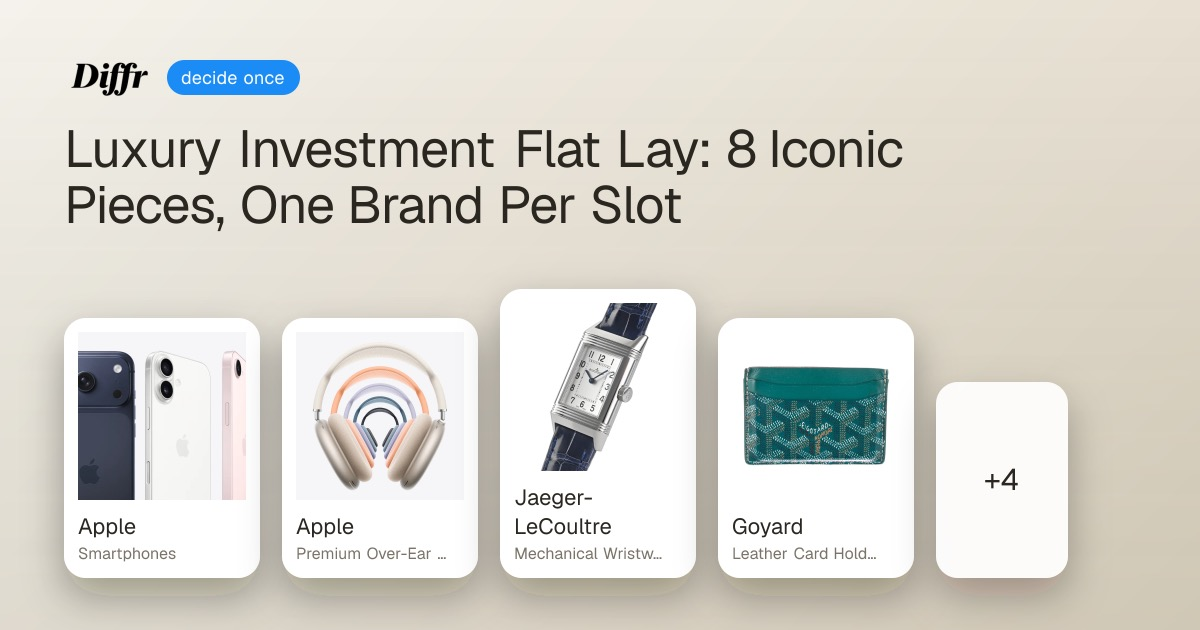
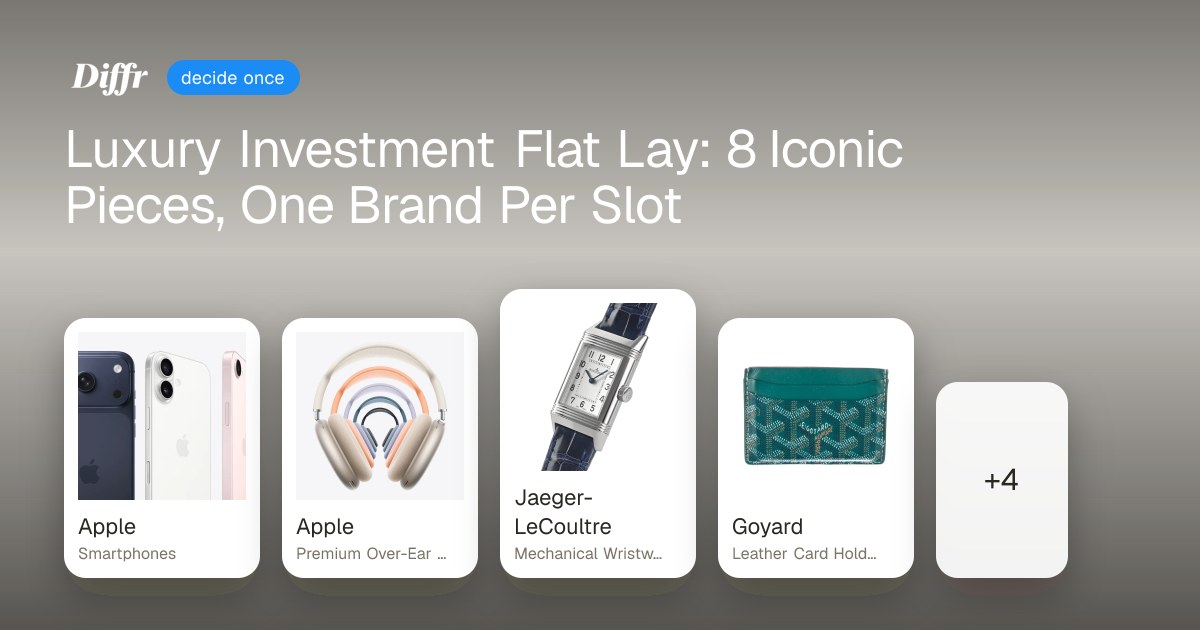
Add luxury flat lay photo as og-base, blog cover, and rebaked share card.
Uses the new reference flat lay for luxury-investment-brand-guide hero cover and OG card background, with updated static share JPG for X/Twitter.

diff --git a/app/diffr/blog/[slug]/page.tsx b/app/diffr/blog/[slug]/page.tsx
@@ -9,7 +9,7 @@ import SceneBrandKit from '../../start/SceneBrandKit'
 import { BLOG_FAQ, BLOG_TLDR } from '../brand-guide-content'
 import { BEHIND_THE_BUILD_FAQ, BEHIND_THE_BUILD_TLDR } from '../behind-the-build-posts'
 import { BEHIND_THE_CONTRACT_FAQ, BEHIND_THE_CONTRACT_TLDR } from '../behind-the-contract-posts'
-import { hasDynamicOgCard } from '../og-base'
+import { hasDynamicOgCard, OG_BASE_SLUGS } from '../og-base'
 import { bakedOgUrl } from '../static-og'
 import {
   buildSupplierItemListLd,
@@ -166,10 +166,12 @@ export default async function BlogPostPage({ params }: Props) {
   const post = getPostBySlug(slug)
   if (!post) notFound()
 
-  // Hook cover photo (toy-team campaign posts); rendered as a hero + share image.
+  // Hook cover photo (toy-team campaign, og-base brand guides).
   const coverImage = (slug === 'mixed-toy-box' || slug.startsWith('toy-team-'))
     ? `/toy-covers/${slug}.jpg`
-    : null
+    : OG_BASE_SLUGS.has(slug)
+      ? `/og-base/${slug}.jpg`
+      : null
 
   const allPosts = getAllPosts()
   const currentIndex = allPosts.findIndex((p) => p.slug === post.slug)

diff --git a/app/diffr/blog/og-base.ts b/app/diffr/blog/og-base.ts
@@ -37,6 +37,7 @@ export const OG_BASE_SLUGS = new Set<string>([
   'behind-the-build-jewel-changi-airport',
   'behind-the-build-petronas-twin-towers',
   'behind-the-build-wembley-stadium',
+  'luxury-investment-brand-guide',
 ])
 
 export function ogBaseUrl(slug: string): string | null {
